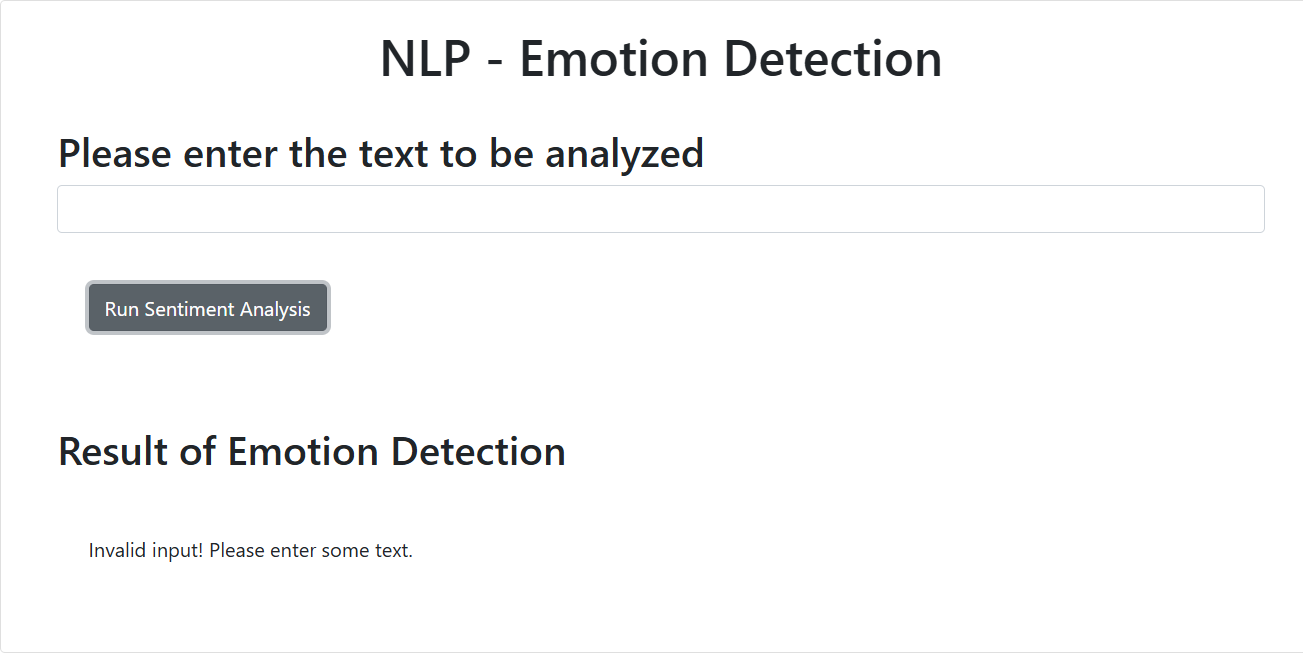
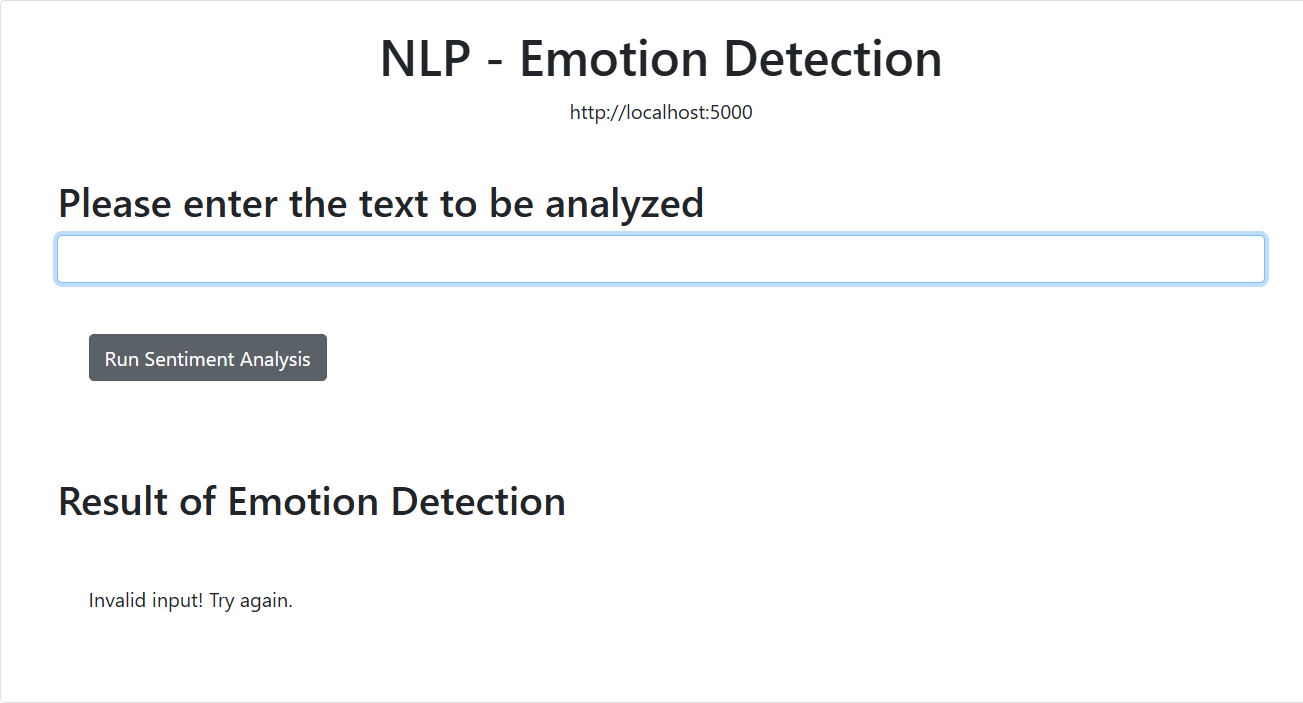
v0.0.5

diff --git a/templates/index.html b/templates/index.html
@@ -12,6 +12,7 @@
     <div class="card">
         <div class="card-body">
             <h1 class="center-heading">NLP - Emotion Detection</h1> 
+            <p class="center-heading">http://localhost:5000</p>
             <div style="padding: 25px 25px 25px 25px;">
             <h2 class="mb-3">
                 <label class="form-label">Please enter the text to be analyzed</label>

diff --git a/test_emotion_detection.py b/test_emotion_detection.py
@@ -8,35 +8,50 @@ from EmotionDetection.emotion_detection import emotion_detector
 
 
 class TestEmotionDetector(unittest.TestCase):
-    def test_returns_all_emotions_and_dominant_emotion(self):
-        api_response = {
-            "emotionPredictions": [
-                {
-                    "emotion": {
-                        "anger": 0.8,
-                        "disgust": 0.1,
-                        "fear": 0.2,
-                        "joy": 0.3,
-                        "sadness": 0.4,
-                    }
-                }
-            ]
-        }
-
+    def _detect_with_scores(self, scores):
         with patch(
             "EmotionDetection.emotion_detection.requests.post"
         ) as post:
             post.return_value.status_code = 200
-            post.return_value.text = json.dumps(api_response)
+            post.return_value.text = json.dumps({
+                "emotionPredictions": [{"emotion": scores}]
+            })
+            return emotion_detector("Test statement")
 
-            result = emotion_detector("I am really mad about this")
-
-        self.assertEqual(result["anger"], 0.8)
-        self.assertEqual(result["disgust"], 0.1)
-        self.assertEqual(result["fear"], 0.2)
-        self.assertEqual(result["joy"], 0.3)
-        self.assertEqual(result["sadness"], 0.4)
+    def test_detects_anger(self):
+        result = self._detect_with_scores({
+            "anger": 0.8, "disgust": 0.1, "fear": 0.2,
+            "joy": 0.3, "sadness": 0.4,
+        })
         self.assertEqual(result["dominant_emotion"], "anger")
+
+    def test_detects_disgust(self):
+        result = self._detect_with_scores({
+            "anger": 0.1, "disgust": 0.8, "fear": 0.2,
+            "joy": 0.3, "sadness": 0.4,
+        })
+        self.assertEqual(result["dominant_emotion"], "disgust")
+
+    def test_detects_fear(self):
+        result = self._detect_with_scores({
+            "anger": 0.1, "disgust": 0.2, "fear": 0.8,
+            "joy": 0.3, "sadness": 0.4,
+        })
+        self.assertEqual(result["dominant_emotion"], "fear")
+
+    def test_detects_joy(self):
+        result = self._detect_with_scores({
+            "anger": 0.1, "disgust": 0.2, "fear": 0.3,
+            "joy": 0.8, "sadness": 0.4,
+        })
+        self.assertEqual(result["dominant_emotion"], "joy")
+
+    def test_detects_sadness(self):
+        result = self._detect_with_scores({
+            "anger": 0.1, "disgust": 0.2, "fear": 0.3,
+            "joy": 0.4, "sadness": 0.8,
+        })
+        self.assertEqual(result["dominant_emotion"], "sadness")
 
     def test_returns_empty_result_for_bad_request(self):
         with patch(

diff --git a/server.py b/server.py
@@ -21,11 +21,11 @@ def sent_analyzer() -> str:
     text_to_analyze = flask.request.args.get("textToAnalyze", "").strip()
 
     if not text_to_analyze:
-        return "Invalid input! Please enter some text."
+        return "Invalid input! Try again."
 
     result = emotion_detector(text_to_analyze)
     if result["dominant_emotion"] is None:
-        return "Invalid input! Please enter some text."
+        return "Invalid input! Try again."
 
     return f"For the given statement, the system response is {result}."
 
